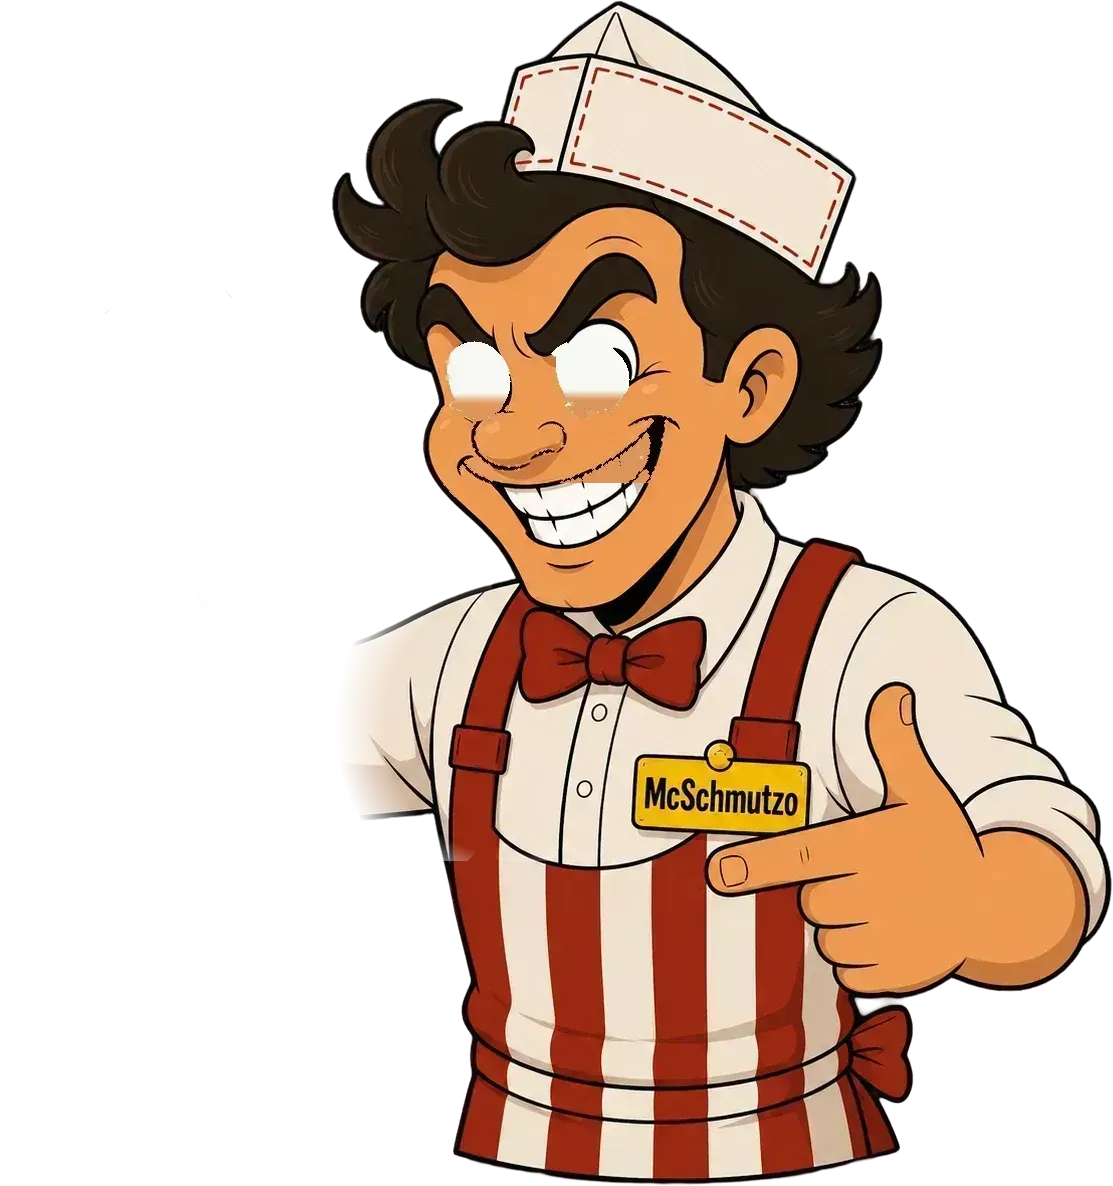
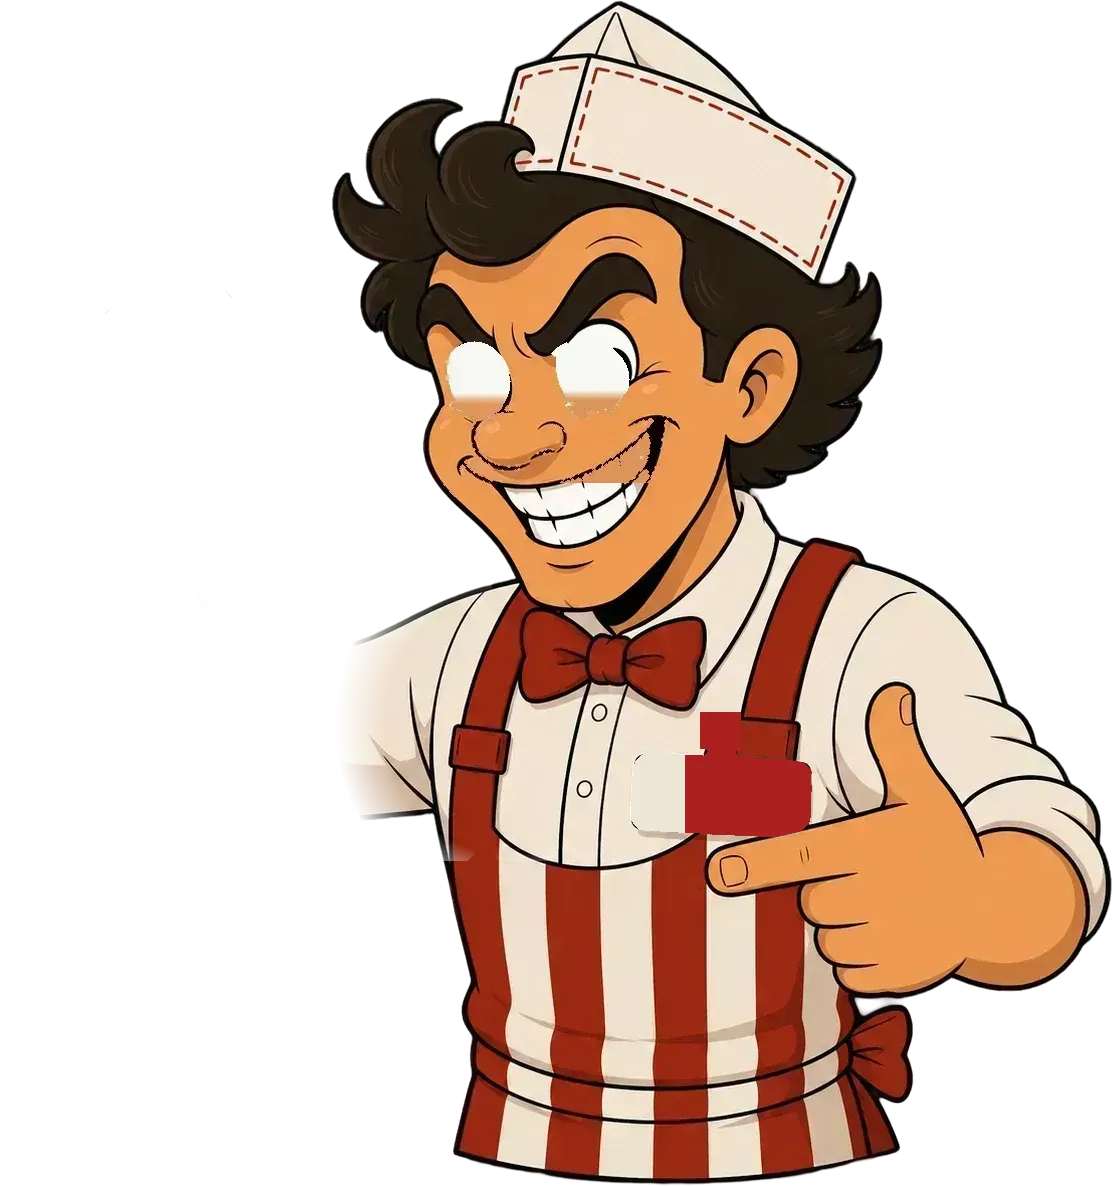
feat(mcschmutzo): salting chef's nametag jiggles too
Cut the special chef's "McSchmutzo" badge out of his base (hole flat-filled
with the red suspender band + cream shirt) and overlay it as an AnimatedGuy
extra that gently tilts on its pin, like the regular chef's label. Verified
in-game: aligned, no double / no patch showing.

Changed region(s): [[0.5499, 0.5927, 0.7332, 0.7175]]

diff --git a/apps/mcschmutzo/src/game/assets.ts b/apps/mcschmutzo/src/game/assets.ts
@@ -473,6 +473,12 @@ export default {
 		src: new URL('../../assets/mcschmutzo/guys/special_base.webp', import.meta.url).href,
 		preload: true,
 	},
+	specialLabel: {
+		// The salting chef's "McSchmutzo" nametag, cut out (patched behind) so it can jiggle on its pin.
+		type: 'sprite',
+		src: new URL('../../assets/mcschmutzo/guys/special_label.webp', import.meta.url).href,
+		preload: true,
+	},
 	specialPupilL: {
 		type: 'sprite',
 		src: new URL('../../assets/mcschmutzo/guys/special_pupilL.webp', import.meta.url).href,

diff --git a/apps/mcschmutzo/src/components/SpecialMascot.svelte b/apps/mcschmutzo/src/components/SpecialMascot.svelte
@@ -152,6 +152,20 @@
 		skin={0xef9650}
 		phase={2000}
 		sparkle={{ nx: 0.49, ny: 0.455, size: 0.075, period: 3800, phase: 1200 }}
+		extras={[
+			{
+				key: 'specialLabel',
+				nx: 0.566,
+				ny: 0.6003,
+				nw: 0.1636,
+				nh: 0.1054,
+				px: 0.5,
+				py: 0.07,
+				amp: 0.04,
+				period: 320,
+				phase: 900,
+			},
+		]}
 	/>
 	<!-- Hand+shaker+forearm (clean full-frame layer), flicking about the elbow. Above the base, below
 	     the falling salt so the grains read as leaving the cap. -->
